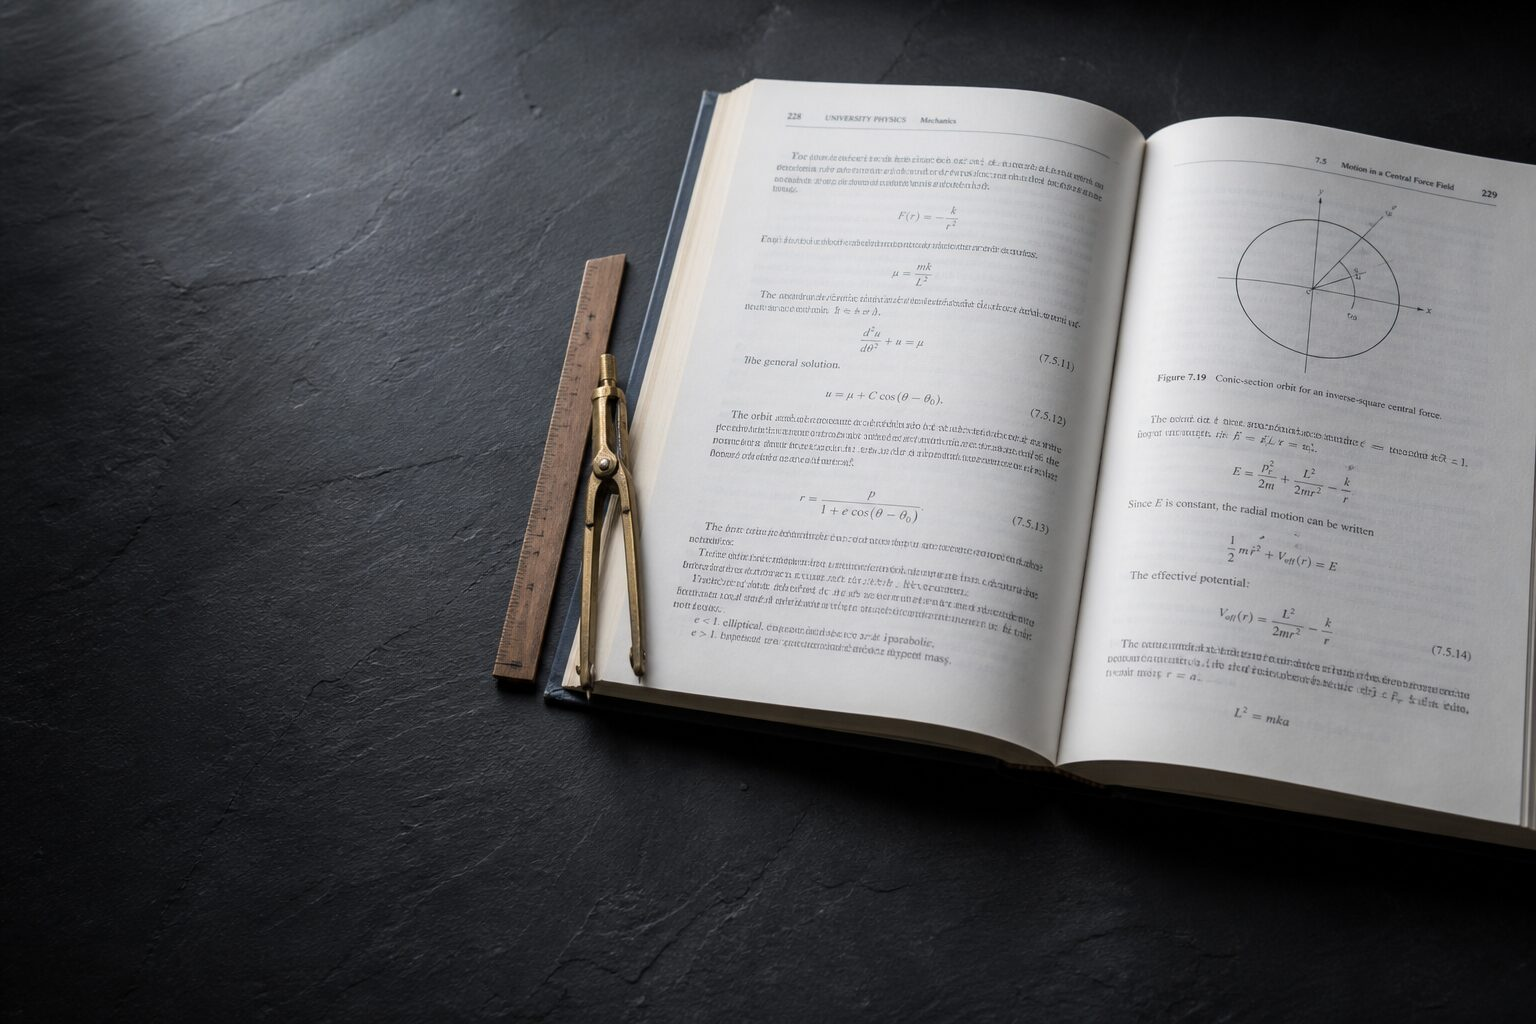
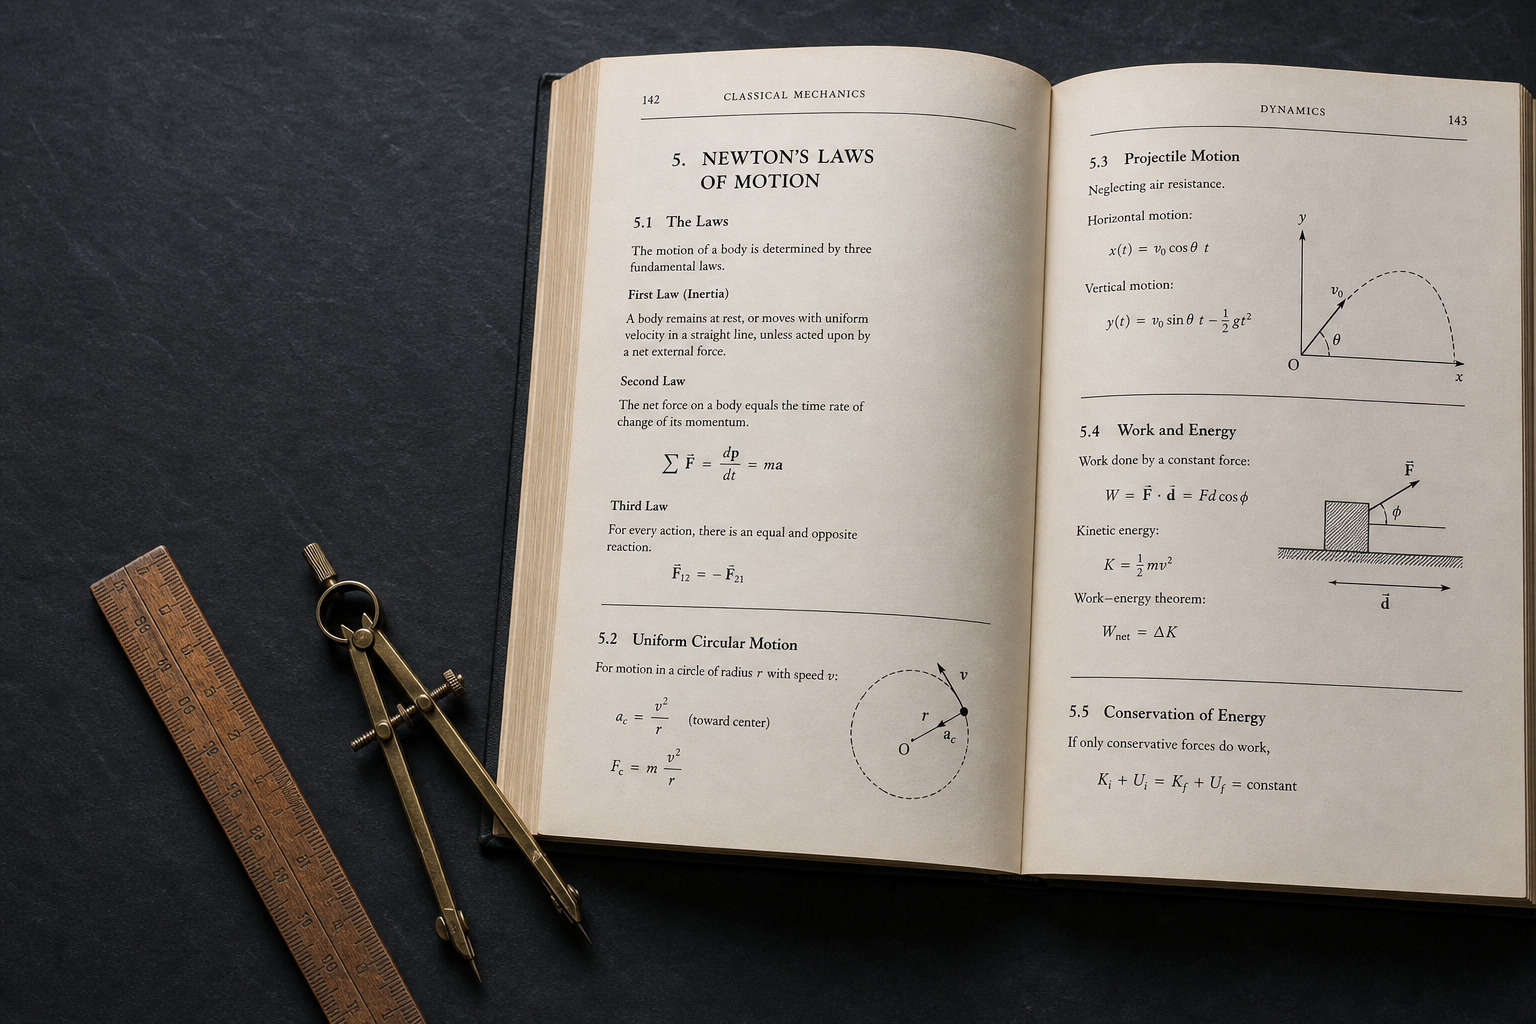
Refresh hero image and complete textbook catalog

diff --git a/index.html b/index.html
@@ -379,9 +379,21 @@
             </a>
           </li>
           <li>
+            <a href="/mecmath-elementary-calculus/">
+              <span class="title">Elementary Calculus</span>
+              <span class="blurb">MecMath</span>
+            </a>
+          </li>
+          <li>
             <a href="/mecmath-trigonometry/">
               <span class="title">Trigonometry</span>
               <span class="blurb">Michael Corral</span>
+            </a>
+          </li>
+          <li>
+            <a href="/mecmath-vector-calculus/">
+              <span class="title">Vector Calculus</span>
+              <span class="blurb">MecMath</span>
             </a>
           </li>
         </ul>
@@ -421,9 +433,21 @@
             </a>
           </li>
           <li>
+            <a href="/ElectromagneticsVolTwoTextbook/">
+              <span class="title">Electromagnetics, Volume 2</span>
+              <span class="blurb">Steven W. Ellingson</span>
+            </a>
+          </li>
+          <li>
             <a href="/EnergyAndHumanAmbitions/">
               <span class="title">Energy and Human Ambitions on a Finite Planet</span>
               <span class="blurb">Tom Murphy</span>
+            </a>
+          </li>
+          <li>
+            <a href="/thermodynamics/">
+              <span class="title">Engineering Thermodynamics</span>
+              <span class="blurb">International edition with SI units</span>
             </a>
           </li>
           <li>
@@ -448,6 +472,12 @@
             <a href="/UniversityPhysicsIClassicalMechanics/">
               <span class="title">University Physics I: Classical Mechanics</span>
               <span class="blurb">Julio Gea-Banacloche</span>
+            </a>
+          </li>
+          <li>
+            <a href="/variationalPrinciples/">
+              <span class="title">Variational Principles in Classical Mechanics</span>
+              <span class="blurb">Classical mechanics</span>
             </a>
           </li>
           <li>
